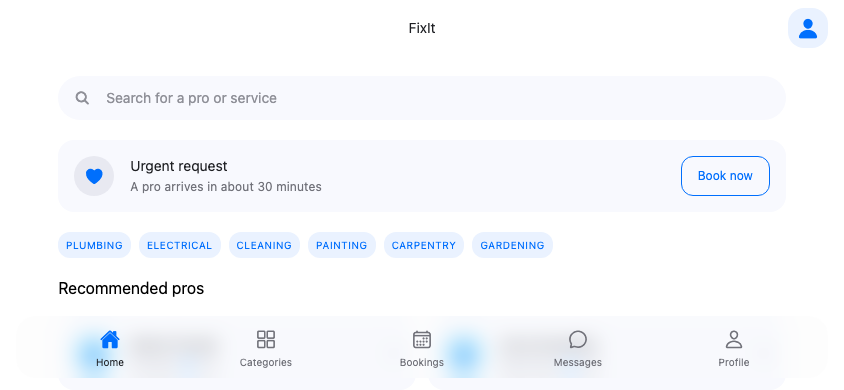
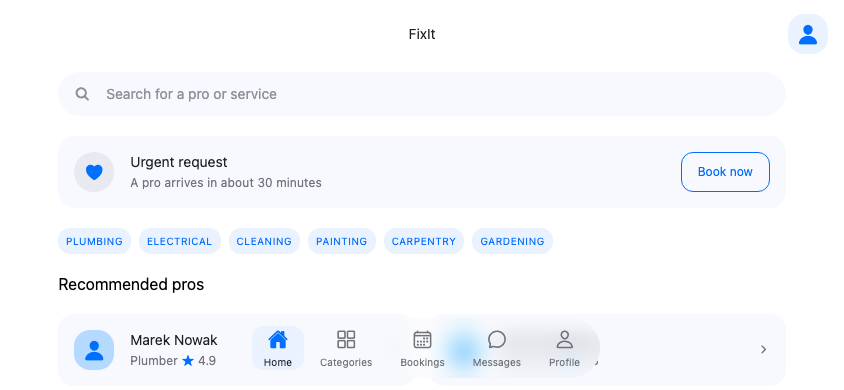
refactor: compact floating TabBar, Header floats as separate glass pieces
TabBar was stretching near edge-to-edge; it now hugs its own content
as a centered capsule (like Apple's compact floating tab bar), with
the active tab getting a light chip highlight instead of just a color
change.

Header no longer docks as a solid white bar — the back button is its
own floating glass circle and the title floats plainly beside it,
both painted over full-bleed scrolling content. Screens now use
useFloatingHeaderClearance()/useFloatingTabBarClearance() for top/
bottom padding, and render Header after the ScrollView so it paints
on top.

diff --git a/src/components/TabBar/TabBar.tsx b/src/components/TabBar/TabBar.tsx
@@ -1,6 +1,6 @@
 import { Ionicons } from '@expo/vector-icons';
 import type { ComponentProps } from 'react';
-import { Pressable, StyleSheet, Text } from 'react-native';
+import { Pressable, StyleSheet, Text, View } from 'react-native';
 import { useSafeAreaInsets } from 'react-native-safe-area-context';
 
 import { GlassSurface } from '@/components/GlassSurface';
@@ -21,8 +21,8 @@ export type TabBarProps = {
   onChange: (key: string) => void;
 };
 
-/** Fixed content height of the bar (icon + gap + label), safe-area padding excluded. */
-const BAR_HEIGHT = 62;
+/** Fixed content height of the pill (vertical padding + icon + gap + label). */
+const BAR_HEIGHT = 60;
 const BOTTOM_OFFSET = spacing.sm;
 
 /** How much bottom padding a screen needs so content doesn't scroll under the floating bar. */
@@ -31,56 +31,70 @@ export function useFloatingTabBarClearance() {
   return insets.bottom + BOTTOM_OFFSET + BAR_HEIGHT + spacing.md;
 }
 
-/** Floats as a Liquid Glass pill above scrollable content, iOS 26 tab-bar style. */
+/**
+ * A compact Liquid Glass capsule that hugs its own content and floats,
+ * centered, above the screen — not a bar stretched edge to edge.
+ */
 export function TabBar({ items, activeKey, onChange }: TabBarProps) {
   const insets = useSafeAreaInsets();
 
   return (
-    <GlassSurface
-      style={[styles.container, { bottom: insets.bottom + BOTTOM_OFFSET }]}
-      glassEffectStyle="regular"
+    <View
+      style={[styles.floatingLayer, { bottom: insets.bottom + BOTTOM_OFFSET }]}
+      pointerEvents="box-none"
     >
-      {items.map((item) => {
-        const isActive = item.key === activeKey;
-        return (
-          <Pressable
-            key={item.key}
-            accessibilityRole="button"
-            accessibilityState={{ selected: isActive }}
-            onPress={() => onChange(item.key)}
-            style={styles.tab}
-          >
-            <Ionicons
-              name={isActive ? item.activeIcon : item.icon}
-              size={20}
-              color={isActive ? colors.primary : colors.textMuted}
-            />
-            <Text style={[typography.actionS, isActive ? styles.activeLabel : styles.label]}>
-              {item.label}
-            </Text>
-          </Pressable>
-        );
-      })}
-    </GlassSurface>
+      <GlassSurface style={styles.pill} glassEffectStyle="regular" isInteractive>
+        {items.map((item) => {
+          const isActive = item.key === activeKey;
+          return (
+            <Pressable
+              key={item.key}
+              accessibilityRole="button"
+              accessibilityState={{ selected: isActive }}
+              onPress={() => onChange(item.key)}
+              style={[styles.tab, isActive && styles.activeTab]}
+            >
+              <Ionicons
+                name={isActive ? item.activeIcon : item.icon}
+                size={20}
+                color={isActive ? colors.primary : colors.textMuted}
+              />
+              <Text style={[typography.actionS, isActive ? styles.activeLabel : styles.label]}>
+                {item.label}
+              </Text>
+            </Pressable>
+          );
+        })}
+      </GlassSurface>
+    </View>
   );
 }
 
 const styles = StyleSheet.create({
-  container: {
+  floatingLayer: {
     position: 'absolute',
-    left: spacing.md,
-    right: spacing.md,
-    height: BAR_HEIGHT,
+    left: 0,
+    right: 0,
+    alignItems: 'center',
+  },
+  pill: {
     flexDirection: 'row',
-    borderRadius: radii.lg,
-    paddingVertical: spacing.sm,
-    paddingHorizontal: spacing.md,
+    height: BAR_HEIGHT,
+    borderRadius: radii.round,
+    paddingHorizontal: spacing.xs,
+    paddingVertical: spacing.xs,
+    gap: spacing.xxs,
     ...shadows.raised,
   },
   tab: {
-    flex: 1,
     alignItems: 'center',
+    justifyContent: 'center',
     gap: spacing.xxs,
+    paddingHorizontal: spacing.sm,
+    borderRadius: radii.sm,
+  },
+  activeTab: {
+    backgroundColor: colors.primaryLightest,
   },
   label: {
     color: colors.textMuted,

diff --git a/src/components/Header/Header.tsx b/src/components/Header/Header.tsx
@@ -1,6 +1,7 @@
 import { Ionicons } from '@expo/vector-icons';
 import type { ReactNode } from 'react';
 import { Pressable, StyleSheet, Text, View } from 'react-native';
+import { useSafeAreaInsets } from 'react-native-safe-area-context';
 
 import { GlassSurface } from '@/components/GlassSurface';
 import { colors, radii, shadows, spacing, typography } from '@/theme';
@@ -13,29 +14,48 @@ export type HeaderProps = {
   rightElement?: ReactNode;
 };
 
+const TOP_OFFSET = spacing.sm;
+const HEADER_HEIGHT = 44;
+const BUTTON_SIZE = 36;
+
+/** How much top padding a screen needs so content doesn't scroll under the floating header. */
+export function useFloatingHeaderClearance() {
+  const insets = useSafeAreaInsets();
+  return insets.top + TOP_OFFSET + HEADER_HEIGHT + spacing.md;
+}
+
+/**
+ * Floats over content instead of docking as a solid bar — the back button is
+ * its own Liquid Glass circle, the title sits directly on the content behind
+ * it, iOS 26 nav-bar style.
+ */
 export function Header({ title, onBackPress, rightElement }: HeaderProps) {
+  const insets = useSafeAreaInsets();
+
   return (
-    <View style={styles.container}>
-      <View style={styles.side}>
-        {onBackPress ? (
-          <Pressable
-            accessibilityRole="button"
-            accessibilityLabel="Go back"
-            hitSlop={8}
-            onPress={onBackPress}
-          >
-            <GlassSurface style={styles.backButton}>
-              <Ionicons name="chevron-back" size={18} color={colors.textPrimary} />
-            </GlassSurface>
-          </Pressable>
-        ) : null}
+    <View style={[styles.floatingLayer, { top: insets.top + TOP_OFFSET }]} pointerEvents="box-none">
+      <View style={styles.row}>
+        <View style={styles.side}>
+          {onBackPress ? (
+            <Pressable
+              accessibilityRole="button"
+              accessibilityLabel="Go back"
+              hitSlop={8}
+              onPress={onBackPress}
+            >
+              <GlassSurface style={styles.backButton} isInteractive>
+                <Ionicons name="chevron-back" size={18} color={colors.textPrimary} />
+              </GlassSurface>
+            </Pressable>
+          ) : null}
+        </View>
+
+        <Text style={[typography.h4, styles.title]} numberOfLines={1}>
+          {title}
+        </Text>
+
+        <View style={[styles.side, styles.rightSide]}>{rightElement}</View>
       </View>
-
-      <Text style={[typography.h4, styles.title]} numberOfLines={1}>
-        {title}
-      </Text>
-
-      <View style={[styles.side, styles.rightSide]}>{rightElement}</View>
     </View>
   );
 }
@@ -43,25 +63,29 @@ export function Header({ title, onBackPress, rightElement }: HeaderProps) {
 const SIDE_WIDTH = 40;
 
 const styles = StyleSheet.create({
-  container: {
-    height: 56,
+  floatingLayer: {
+    position: 'absolute',
+    left: 0,
+    right: 0,
+  },
+  row: {
+    height: HEADER_HEIGHT,
     flexDirection: 'row',
     alignItems: 'center',
     paddingHorizontal: spacing.md,
-    backgroundColor: colors.white,
   },
   side: {
     width: SIDE_WIDTH,
     justifyContent: 'center',
   },
   backButton: {
-    width: 32,
-    height: 32,
+    width: BUTTON_SIZE,
+    height: BUTTON_SIZE,
     borderRadius: radii.round,
     alignItems: 'center',
     justifyContent: 'center',
-    // The glass fill alone is nearly invisible on a white header — a rim
-    // makes the pill readable even where there's nothing behind it to blur.
+    // The glass fill alone is nearly invisible on a white content area — a
+    // rim keeps the pill readable even where there's nothing behind it to blur.
     borderWidth: StyleSheet.hairlineWidth,
     borderColor: colors.surfaceMedium,
     ...shadows.card,

diff --git a/src/screens/HomeScreen.tsx b/src/screens/HomeScreen.tsx
@@ -5,7 +5,7 @@ import { ScrollView, StyleSheet, Text, View } from 'react-native';
 import { Avatar } from '@/components/Avatar';
 import { Button } from '@/components/Button';
 import { CategoryList } from '@/components/CategoryList';
-import { Header } from '@/components/Header';
+import { Header, useFloatingHeaderClearance } from '@/components/Header';
 import { ProCard } from '@/components/ProCard';
 import { SearchBar } from '@/components/SearchBar';
 import { useFloatingTabBarClearance } from '@/components/TabBar';
@@ -15,18 +15,17 @@ import { colors, radii, spacing, typography } from '@/theme';
 
 export function HomeScreen() {
   const { contentWidth, cardWidth } = useResponsiveLayout();
+  const headerClearance = useFloatingHeaderClearance();
   const tabBarClearance = useFloatingTabBarClearance();
   const [query, setQuery] = useState('');
   const [selectedCategoryId, setSelectedCategoryId] = useState<string>();
 
   return (
     <View style={styles.screen}>
-      <Header title="FixIt" rightElement={<Avatar />} />
-
       <ScrollView
         contentContainerStyle={[styles.scrollContent, { paddingBottom: tabBarClearance }]}
       >
-        <View style={[styles.content, { width: contentWidth }]}>
+        <View style={[styles.content, { width: contentWidth, paddingTop: headerClearance }]}>
           <SearchBar
             value={query}
             onChangeText={setQuery}
@@ -63,6 +62,8 @@ export function HomeScreen() {
           </View>
         </View>
       </ScrollView>
+
+      <Header title="FixIt" rightElement={<Avatar />} />
     </View>
   );
 }
@@ -78,7 +79,6 @@ const styles = StyleSheet.create({
   content: {
     gap: spacing.lg,
     paddingHorizontal: spacing.md,
-    paddingTop: spacing.lg,
   },
   urgentCard: {
     flexDirection: 'row',

diff --git a/src/screens/CategoriesScreen.tsx b/src/screens/CategoriesScreen.tsx
@@ -1,7 +1,7 @@
 import { useState } from 'react';
 import { ScrollView, StyleSheet, Text, View } from 'react-native';
 
-import { Header } from '@/components/Header';
+import { Header, useFloatingHeaderClearance } from '@/components/Header';
 import { ListItem } from '@/components/ListItem';
 import { SearchBar } from '@/components/SearchBar';
 import { useFloatingTabBarClearance } from '@/components/TabBar';
@@ -11,17 +11,16 @@ import { colors, spacing, typography } from '@/theme';
 
 export function CategoriesScreen() {
   const { contentWidth, cardWidth } = useResponsiveLayout();
+  const headerClearance = useFloatingHeaderClearance();
   const tabBarClearance = useFloatingTabBarClearance();
   const [query, setQuery] = useState('');
 
   return (
     <View style={styles.screen}>
-      <Header title="Categories" onBackPress={() => {}} />
-
       <ScrollView
         contentContainerStyle={[styles.scrollContent, { paddingBottom: tabBarClearance }]}
       >
-        <View style={[styles.content, { width: contentWidth }]}>
+        <View style={[styles.content, { width: contentWidth, paddingTop: headerClearance }]}>
           <SearchBar value={query} onChangeText={setQuery} placeholder="Search categories" />
 
           <Text style={[typography.sectionTitle, styles.sectionTitle]}>All categories</Text>
@@ -35,6 +34,8 @@ export function CategoriesScreen() {
           </View>
         </View>
       </ScrollView>
+
+      <Header title="Categories" onBackPress={() => {}} />
     </View>
   );
 }
@@ -50,7 +51,6 @@ const styles = StyleSheet.create({
   content: {
     gap: spacing.md,
     paddingHorizontal: spacing.md,
-    paddingTop: spacing.lg,
   },
   sectionTitle: {
     color: colors.text,

diff --git a/src/screens/ProDetailsScreen.tsx b/src/screens/ProDetailsScreen.tsx
@@ -2,7 +2,7 @@ import { ScrollView, StyleSheet, Text, View } from 'react-native';
 
 import { Avatar } from '@/components/Avatar';
 import { Button } from '@/components/Button';
-import { Header } from '@/components/Header';
+import { Header, useFloatingHeaderClearance } from '@/components/Header';
 import { ListItem } from '@/components/ListItem';
 import { ProCard } from '@/components/ProCard';
 import { StarRating } from '@/components/StarRating';
@@ -14,14 +14,13 @@ import { colors, spacing, typography } from '@/theme';
 
 export function ProDetailsScreen() {
   const { contentWidth, cardWidth } = useResponsiveLayout();
+  const headerClearance = useFloatingHeaderClearance();
   const tabBarClearance = useFloatingTabBarClearance();
 
   return (
     <View style={styles.screen}>
-      <Header title="Pro profile" onBackPress={() => {}} />
-
       <ScrollView contentContainerStyle={styles.scrollContent}>
-        <View style={[styles.content, { width: contentWidth }]}>
+        <View style={[styles.content, { width: contentWidth, paddingTop: headerClearance }]}>
           <View style={styles.profileHeader}>
             <Avatar size="lg" />
             <Text style={[typography.h1, styles.name]}>Marek Nowak</Text>
@@ -58,6 +57,8 @@ export function ProDetailsScreen() {
       <View style={[styles.footer, { paddingBottom: tabBarClearance }]}>
         <Button title="Book appointment" />
       </View>
+
+      <Header title="Pro profile" onBackPress={() => {}} />
     </View>
   );
 }
@@ -74,7 +75,6 @@ const styles = StyleSheet.create({
   content: {
     gap: spacing.lg,
     paddingHorizontal: spacing.md,
-    paddingTop: spacing.lg,
   },
   profileHeader: {
     alignItems: 'center',
